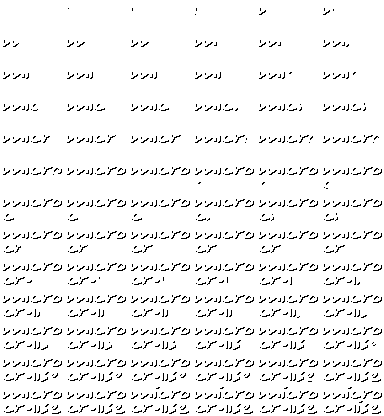
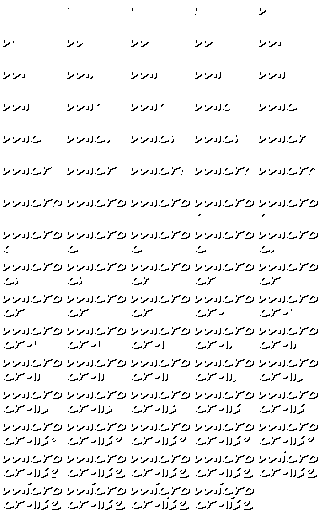
Better title animation

diff --git a/src/entities/UI.ts b/src/entities/UI.ts
@@ -31,7 +31,9 @@ export class UI {
   constructor(scene: Scene) {
     scene.anims.create({
       key: 'title-reveal',
-      frames: scene.anims.generateFrameNumbers('title-anim'),
+      frames: scene.anims.generateFrameNumbers('title-anim', {
+        end: 78,
+      }),
       frameRate: 28,
     })
     this.title = scene.add.sprite(32, 16, 'title-anim', 0).setDepth(10)
